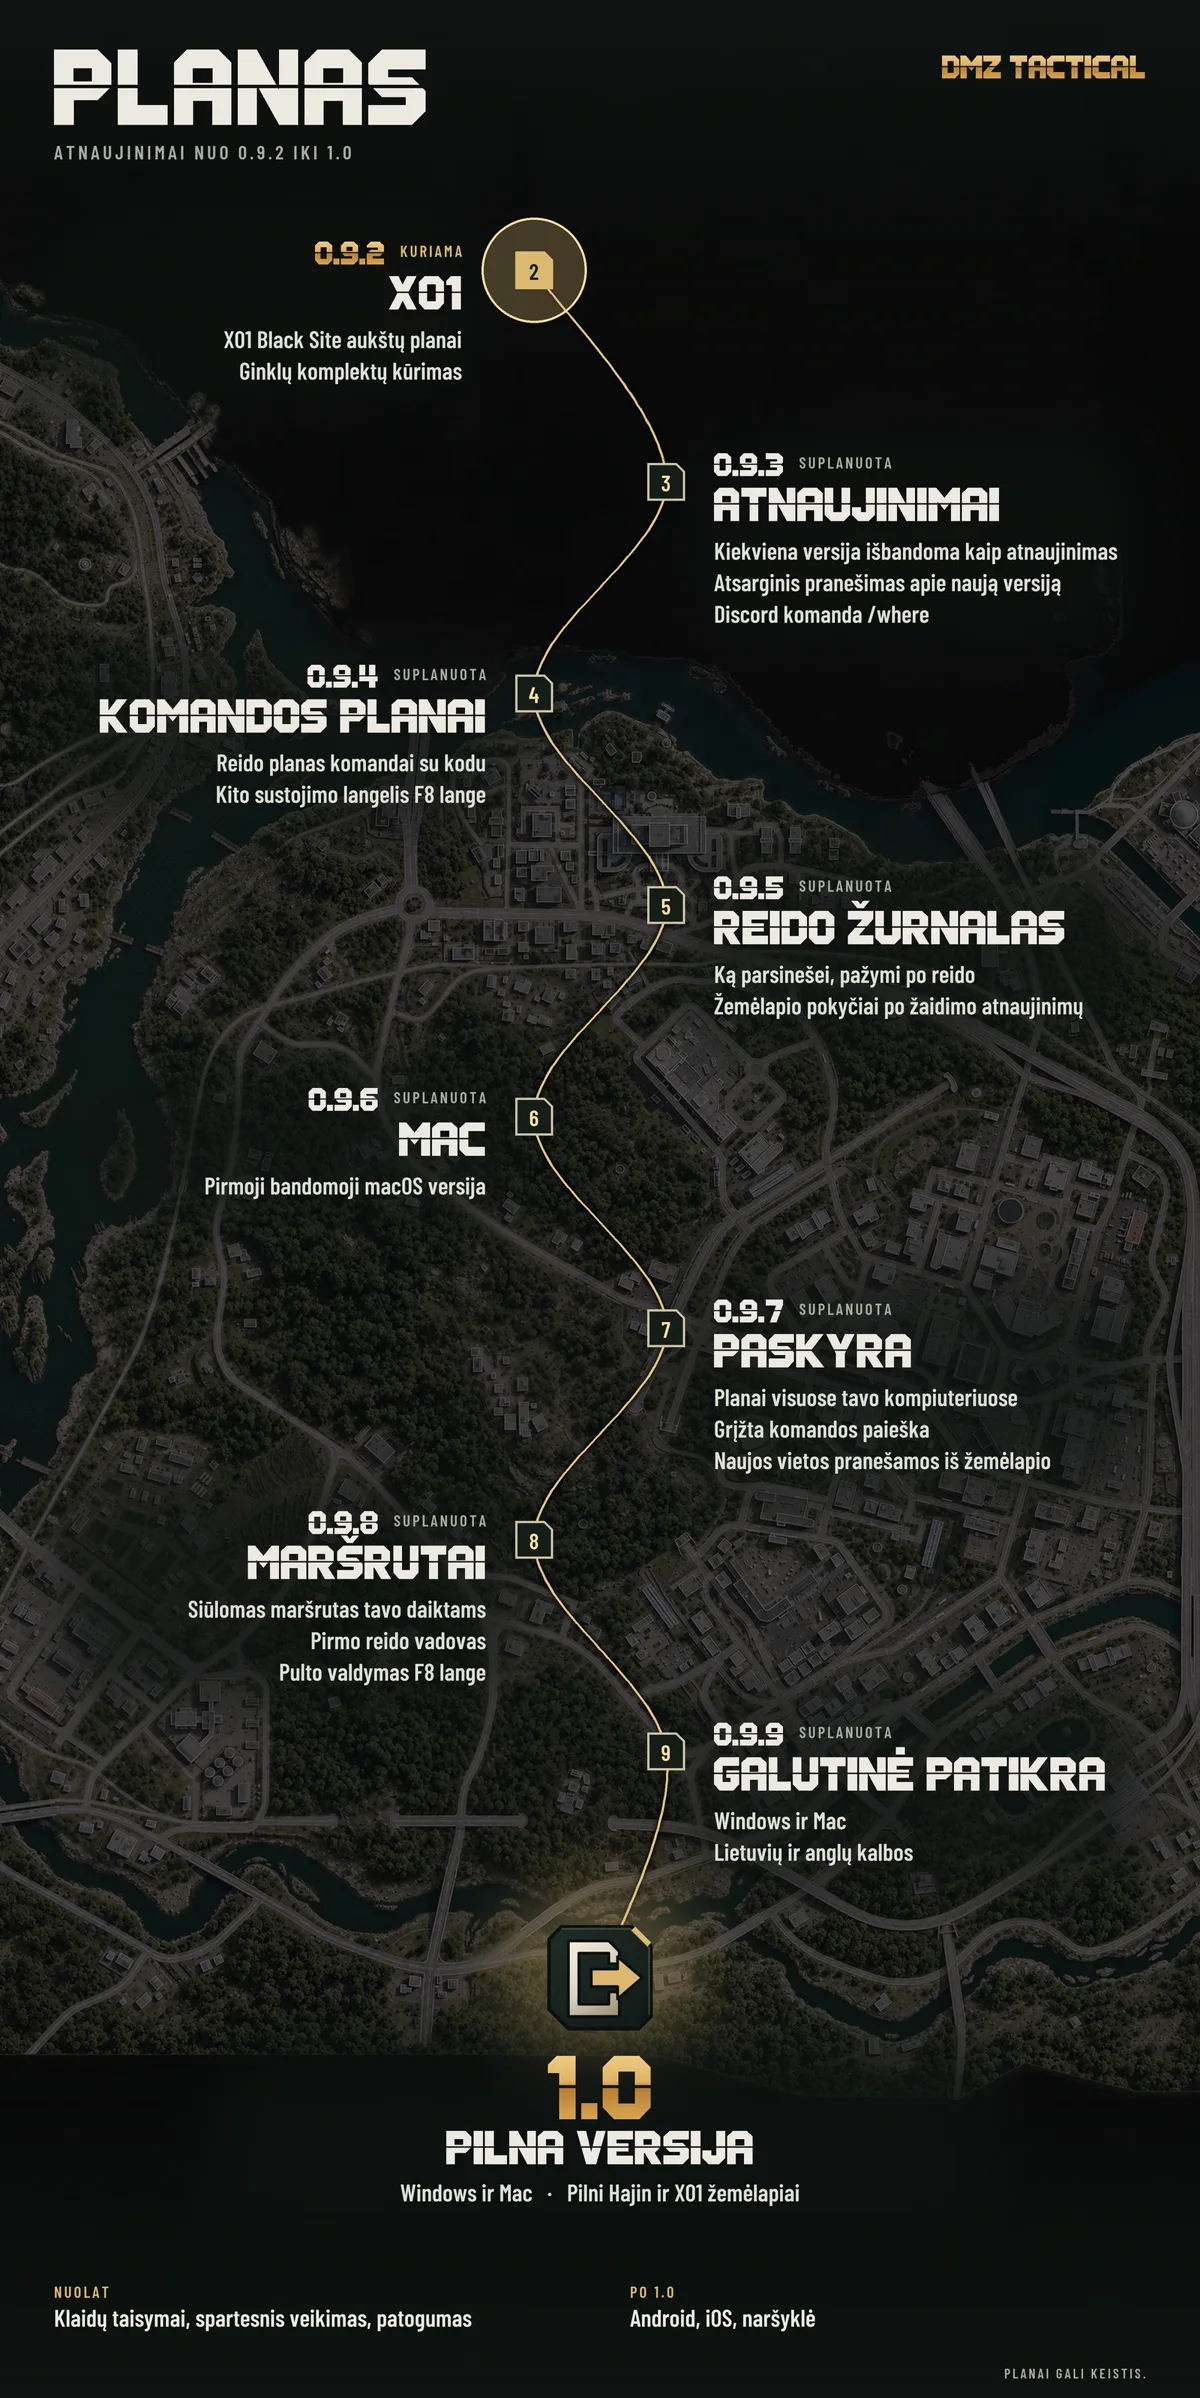
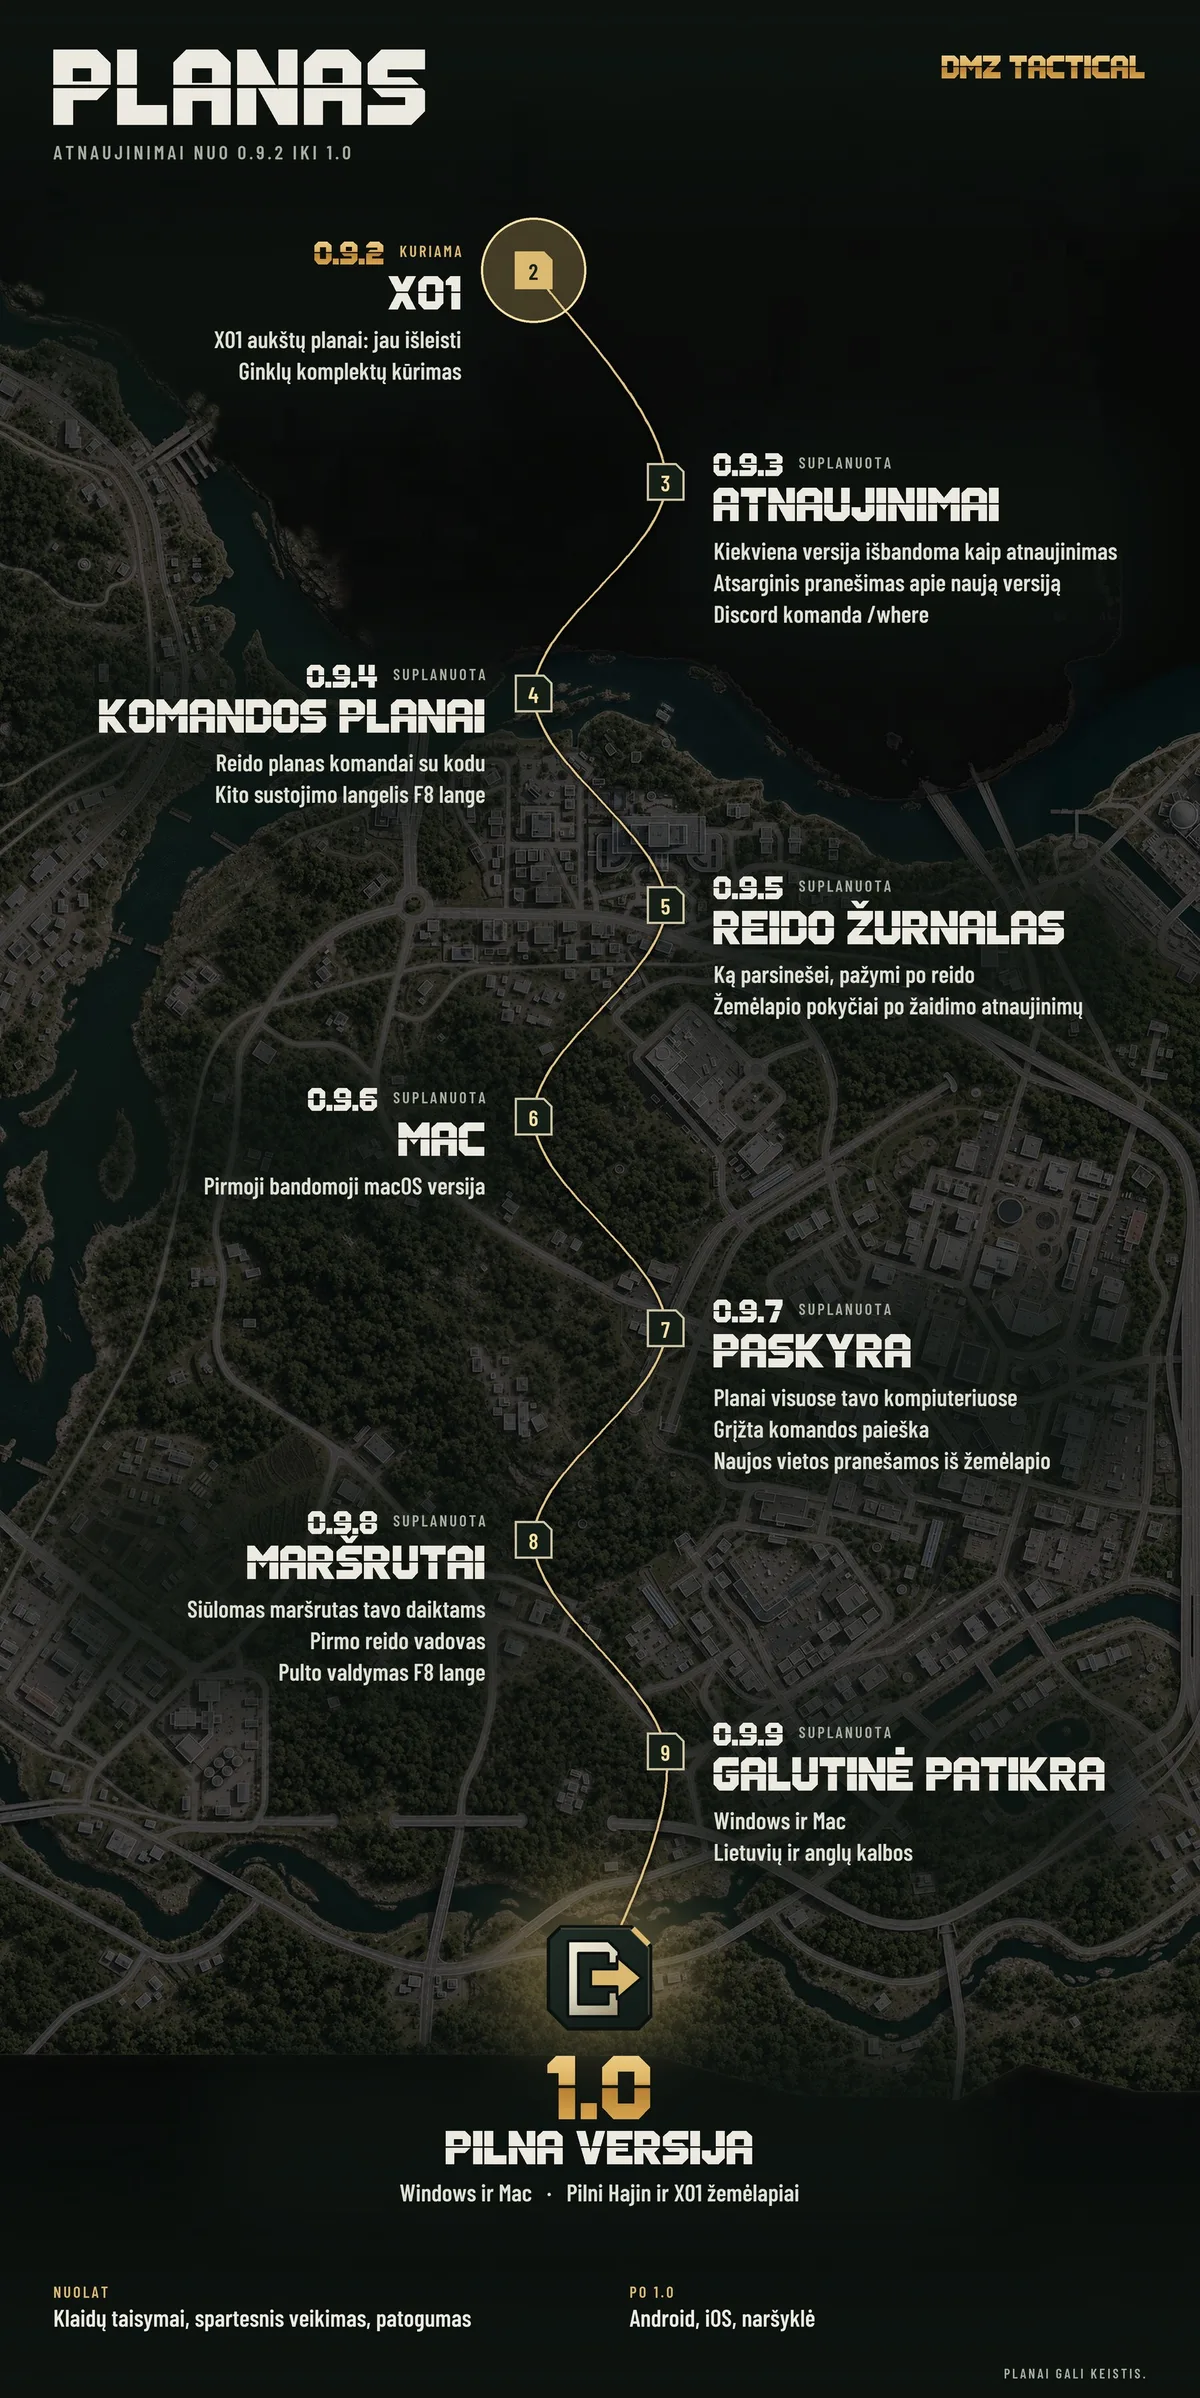
Roadmap: X01 floor plans are out
0.9.2 X01 now says the floor plans are out and the weapon builder is in progress, on the README boards, in their alt text and on the website. New board file names so GitHub shows the update.

diff --git a/docs/lt/index.html b/docs/lt/index.html
@@ -89,10 +89,10 @@
 <section aria-labelledby="road-h"><div class="wrap">
 <h2 id="road-h" class="sr-only">Planas iki 1.0</h2>
 <picture class="roadmap">
-<source media="(max-width: 600px)" srcset="../assets/img/roadmap-mobile-lt.webp" width="900" height="3480">
-<img src="../assets/img/roadmap-lt.webp" width="1200" height="2398" alt="Planas iki 1.0, nupieštas kaip reido maršrutas Hajin žemėlapyje. 0.9.2 X01, kuriama: X01 Black Site aukštų planai ir ginklų komplektų kūrimas. 0.9.3 Atnaujinimai: kiekviena versija išbandoma kaip atnaujinimas, atsarginis pranešimas apie naują versiją ir Discord komanda /where. 0.9.4 Komandos planai: reido planas komandai su kodu ir kito sustojimo langelis F8 lange. 0.9.5 Reido žurnalas: ką parsinešei, pažymi po reido, ir žemėlapio pokyčiai po žaidimo atnaujinimų. 0.9.6 Mac: pirmoji bandomoji macOS versija. 0.9.7 Paskyra: planai visuose tavo kompiuteriuose, grįžta komandos paieška, naujos vietos pranešamos iš žemėlapio. 0.9.8 Maršrutai: siūlomas maršrutas tavo daiktams, pirmo reido vadovas, pulto valdymas F8 lange. 0.9.9 Galutinė patikra: Windows ir Mac, lietuvių ir anglų kalbos. 1.0 Pilna versija: Windows ir Mac, pilni Hajin ir X01 žemėlapiai. Nuolat: klaidų taisymai, spartesnis veikimas ir patogumas. Po 1.0: Android, iOS ir naršyklė. Planai gali keistis." loading="lazy" decoding="async">
+<source media="(max-width: 600px)" srcset="../assets/img/roadmap-mobile-lt.webp?v=r2" width="900" height="3480">
+<img src="../assets/img/roadmap-lt.webp?v=r2" width="1200" height="2398" alt="Planas iki 1.0, nupieštas kaip reido maršrutas Hajin žemėlapyje. 0.9.2 X01, kuriama: X01 aukštų planai jau išleisti, ginklų komplektų kūrimas kuriamas. 0.9.3 Atnaujinimai: kiekviena versija išbandoma kaip atnaujinimas, atsarginis pranešimas apie naują versiją ir Discord komanda /where. 0.9.4 Komandos planai: reido planas komandai su kodu ir kito sustojimo langelis F8 lange. 0.9.5 Reido žurnalas: ką parsinešei, pažymi po reido, ir žemėlapio pokyčiai po žaidimo atnaujinimų. 0.9.6 Mac: pirmoji bandomoji macOS versija. 0.9.7 Paskyra: planai visuose tavo kompiuteriuose, grįžta komandos paieška, naujos vietos pranešamos iš žemėlapio. 0.9.8 Maršrutai: siūlomas maršrutas tavo daiktams, pirmo reido vadovas, pulto valdymas F8 lange. 0.9.9 Galutinė patikra: Windows ir Mac, lietuvių ir anglų kalbos. 1.0 Pilna versija: Windows ir Mac, pilni Hajin ir X01 žemėlapiai. Nuolat: klaidų taisymai, spartesnis veikimas ir patogumas. Po 1.0: Android, iOS ir naršyklė. Planai gali keistis." loading="lazy" decoding="async">
 </picture>
-<details class="road-text"><summary>Skaityti planą tekstu</summary><ol class="road"><li><b>0.9.2 · kuriama</b><span>X01 Black Site aukštų planai ir ginklų komplektų kūrimas</span></li><li><b>0.9.3</b><span>Kiekviena versija išbandoma kaip atnaujinimas, atsarginis pranešimas apie naują versiją ir Discord komanda /where</span></li><li><b>0.9.4</b><span>Reido planas komandai su kodu ir kito sustojimo langelis F8 lange</span></li><li><b>0.9.5</b><span>Reido žurnalas: ką parsinešei, pažymi po reido, ir žemėlapio pokyčiai po žaidimo atnaujinimų</span></li><li><b>0.9.6</b><span>Pirmoji bandomoji macOS versija</span></li><li><b>0.9.7</b><span>Paskyra: planai visuose tavo kompiuteriuose, grįžta komandos paieška, naujos vietos pranešamos iš žemėlapio</span></li><li><b>0.9.8</b><span>Siūlomas maršrutas tavo daiktams, pirmo reido vadovas ir pulto valdymas F8 lange</span></li><li><b>0.9.9</b><span>Galutinė patikra: Windows ir Mac, lietuvių ir anglų kalbos</span></li><li><b>1.0</b><span>Pilna versija Windows ir Mac su pilnais Hajin ir X01 žemėlapiais</span></li><li><b>Po 1.0</b><span>Android, iOS ir naršyklė</span></li></ol></details>
+<details class="road-text"><summary>Skaityti planą tekstu</summary><ol class="road"><li><b>0.9.2 · kuriama</b><span>X01 aukštų planai jau išleisti; kuriamas ginklų komplektų kūrimas</span></li><li><b>0.9.3</b><span>Kiekviena versija išbandoma kaip atnaujinimas, atsarginis pranešimas apie naują versiją ir Discord komanda /where</span></li><li><b>0.9.4</b><span>Reido planas komandai su kodu ir kito sustojimo langelis F8 lange</span></li><li><b>0.9.5</b><span>Reido žurnalas: ką parsinešei, pažymi po reido, ir žemėlapio pokyčiai po žaidimo atnaujinimų</span></li><li><b>0.9.6</b><span>Pirmoji bandomoji macOS versija</span></li><li><b>0.9.7</b><span>Paskyra: planai visuose tavo kompiuteriuose, grįžta komandos paieška, naujos vietos pranešamos iš žemėlapio</span></li><li><b>0.9.8</b><span>Siūlomas maršrutas tavo daiktams, pirmo reido vadovas ir pulto valdymas F8 lange</span></li><li><b>0.9.9</b><span>Galutinė patikra: Windows ir Mac, lietuvių ir anglų kalbos</span></li><li><b>1.0</b><span>Pilna versija Windows ir Mac su pilnais Hajin ir X01 žemėlapiais</span></li><li><b>Po 1.0</b><span>Android, iOS ir naršyklė</span></li></ol></details>
 <p class="note">Klaidų taisymai, spartesnis veikimas ir patogumas – kiekviename atnaujinime. Planai gali keistis. Naujienas skelbiame <a href="https://discord.gg/PzCZNqmybB">Discord</a>.</p>
 </div></section>
 <section id="faq" aria-labelledby="faq-h"><div class="wrap">

diff --git a/docs/index.html b/docs/index.html
@@ -89,10 +89,10 @@
 <section aria-labelledby="road-h"><div class="wrap">
 <h2 id="road-h" class="sr-only">Roadmap to 1.0</h2>
 <picture class="roadmap">
-<source media="(max-width: 600px)" srcset="assets/img/roadmap-mobile-en.webp" width="900" height="3480">
-<img src="assets/img/roadmap-en.webp" width="1200" height="2398" alt="Roadmap to 1.0, drawn as a raid route on the Hajin map. 0.9.2 X01, in progress: X01 Black Site floor plans and a weapon builder. 0.9.3 Updates: every release tested as an update, a backup update notice and the Discord command /where. 0.9.4 Squad plans: share a raid plan with a code, and the next stop&#x27;s grid square in F8. 0.9.5 Raid log: log your loot after a raid, and map changes after game updates. 0.9.6 Mac: first macOS test build. 0.9.7 Account: plans synced across PCs, squad search returns, report item spots. 0.9.8 Routes: suggested route for your items, first raid guide, gamepad support in F8. 0.9.9 Final testing on Windows and Mac, in English and Lithuanian. 1.0 Full release: Windows and Mac, complete Hajin and X01 maps. Ongoing: bug fixes, performance and quality of life. After 1.0: Android, iOS and web. Plans are subject to change." loading="lazy" decoding="async">
+<source media="(max-width: 600px)" srcset="assets/img/roadmap-mobile-en.webp?v=r2" width="900" height="3480">
+<img src="assets/img/roadmap-en.webp?v=r2" width="1200" height="2398" alt="Roadmap to 1.0, drawn as a raid route on the Hajin map. 0.9.2 X01, in progress: X01 floor plans are out now, the weapon builder is in progress. 0.9.3 Updates: every release tested as an update, a backup update notice and the Discord command /where. 0.9.4 Squad plans: share a raid plan with a code, and the next stop&#x27;s grid square in F8. 0.9.5 Raid log: log your loot after a raid, and map changes after game updates. 0.9.6 Mac: first macOS test build. 0.9.7 Account: plans synced across PCs, squad search returns, report item spots. 0.9.8 Routes: suggested route for your items, first raid guide, gamepad support in F8. 0.9.9 Final testing on Windows and Mac, in English and Lithuanian. 1.0 Full release: Windows and Mac, complete Hajin and X01 maps. Ongoing: bug fixes, performance and quality of life. After 1.0: Android, iOS and web. Plans are subject to change." loading="lazy" decoding="async">
 </picture>
-<details class="road-text"><summary>Read the roadmap as text</summary><ol class="road"><li><b>0.9.2 · in progress</b><span>X01 Black Site floor plans and a weapon builder</span></li><li><b>0.9.3</b><span>Every release tested as an update, a backup update notice and the Discord command /where</span></li><li><b>0.9.4</b><span>Share a raid plan with your squad using a code; the next stop&#x27;s grid square in F8</span></li><li><b>0.9.5</b><span>Raid log for the loot you brought back, and map changes after game updates</span></li><li><b>0.9.6</b><span>First macOS test build</span></li><li><b>0.9.7</b><span>Account: plans synced across PCs, squad search returns, report item spots</span></li><li><b>0.9.8</b><span>Suggested route for your items, first raid guide and gamepad support in F8</span></li><li><b>0.9.9</b><span>Final testing on Windows and Mac, in English and Lithuanian</span></li><li><b>1.0</b><span>Full release for Windows and Mac with complete Hajin and X01 maps</span></li><li><b>After 1.0</b><span>Android, iOS and web</span></li></ol></details>
+<details class="road-text"><summary>Read the roadmap as text</summary><ol class="road"><li><b>0.9.2 · in progress</b><span>X01 floor plans are out now; weapon builder in progress</span></li><li><b>0.9.3</b><span>Every release tested as an update, a backup update notice and the Discord command /where</span></li><li><b>0.9.4</b><span>Share a raid plan with your squad using a code; the next stop&#x27;s grid square in F8</span></li><li><b>0.9.5</b><span>Raid log for the loot you brought back, and map changes after game updates</span></li><li><b>0.9.6</b><span>First macOS test build</span></li><li><b>0.9.7</b><span>Account: plans synced across PCs, squad search returns, report item spots</span></li><li><b>0.9.8</b><span>Suggested route for your items, first raid guide and gamepad support in F8</span></li><li><b>0.9.9</b><span>Final testing on Windows and Mac, in English and Lithuanian</span></li><li><b>1.0</b><span>Full release for Windows and Mac with complete Hajin and X01 maps</span></li><li><b>After 1.0</b><span>Android, iOS and web</span></li></ol></details>
 <p class="note">Bug fixes, performance and quality of life improvements continue in every update. Plans are subject to change. Follow progress on <a href="https://discord.gg/PzCZNqmybB">Discord</a>.</p>
 </div></section>
 <section id="faq" aria-labelledby="faq-h"><div class="wrap">

diff --git a/README.lt.md b/README.lt.md
@@ -71,8 +71,8 @@
 ## Kas toliau
 
 <picture>
-<source media="(max-width: 600px)" srcset="media/hajin-roadmap-1-0-mobile-lt.jpg">
-<img src="media/hajin-roadmap-1-0-lt.jpg" width="100%" alt="Planas iki 1.0, nupieštas kaip reido maršrutas Hajin žemėlapyje. 0.9.2 X01, kuriama: X01 Black Site aukštų planai ir ginklų komplektų kūrimas. 0.9.3 Atnaujinimai: kiekviena versija išbandoma kaip atnaujinimas, atsarginis pranešimas apie naują versiją ir Discord komanda /where. 0.9.4 Komandos planai: reido planas komandai su kodu ir kito sustojimo langelis F8 lange. 0.9.5 Reido žurnalas: ką parsinešei, pažymi po reido, ir žemėlapio pokyčiai po žaidimo atnaujinimų. 0.9.6 Mac: pirmoji bandomoji macOS versija. 0.9.7 Paskyra: planai visuose tavo kompiuteriuose, grįžta komandos paieška, naujos vietos pranešamos iš žemėlapio. 0.9.8 Maršrutai: siūlomas maršrutas tavo daiktams, pirmo reido vadovas, pulto valdymas F8 lange. 0.9.9 Galutinė patikra: Windows ir Mac, lietuvių ir anglų kalbos. 1.0 Pilna versija: Windows ir Mac, pilni Hajin ir X01 žemėlapiai. Nuolat: klaidų taisymai, spartesnis veikimas ir patogumas. Po 1.0: Android, iOS ir naršyklė. Planai gali keistis.">
+<source media="(max-width: 600px)" srcset="media/hajin-roadmap-1-0-r2-mobile-lt.jpg">
+<img src="media/hajin-roadmap-1-0-r2-lt.jpg" width="100%" alt="Planas iki 1.0, nupieštas kaip reido maršrutas Hajin žemėlapyje. 0.9.2 X01, kuriama: X01 aukštų planai jau išleisti, ginklų komplektų kūrimas kuriamas. 0.9.3 Atnaujinimai: kiekviena versija išbandoma kaip atnaujinimas, atsarginis pranešimas apie naują versiją ir Discord komanda /where. 0.9.4 Komandos planai: reido planas komandai su kodu ir kito sustojimo langelis F8 lange. 0.9.5 Reido žurnalas: ką parsinešei, pažymi po reido, ir žemėlapio pokyčiai po žaidimo atnaujinimų. 0.9.6 Mac: pirmoji bandomoji macOS versija. 0.9.7 Paskyra: planai visuose tavo kompiuteriuose, grįžta komandos paieška, naujos vietos pranešamos iš žemėlapio. 0.9.8 Maršrutai: siūlomas maršrutas tavo daiktams, pirmo reido vadovas, pulto valdymas F8 lange. 0.9.9 Galutinė patikra: Windows ir Mac, lietuvių ir anglų kalbos. 1.0 Pilna versija: Windows ir Mac, pilni Hajin ir X01 žemėlapiai. Nuolat: klaidų taisymai, spartesnis veikimas ir patogumas. Po 1.0: Android, iOS ir naršyklė. Planai gali keistis.">
 </picture>
 
 <p align="center">Naujienos – <a href="https://discord.gg/PzCZNqmybB">Discord serveryje</a>.</p>

diff --git a/README.md b/README.md
@@ -71,8 +71,8 @@
 ## What's next
 
 <picture>
-<source media="(max-width: 600px)" srcset="media/hajin-roadmap-1-0-mobile-en.jpg">
-<img src="media/hajin-roadmap-1-0-en.jpg" width="100%" alt="Roadmap to 1.0, drawn as a raid route on the Hajin map. 0.9.2 X01, in progress: X01 Black Site floor plans and a weapon builder. 0.9.3 Updates: every release tested as an update, a backup update notice and the Discord command /where. 0.9.4 Squad plans: share a raid plan with a code, and the next stop's grid square in F8. 0.9.5 Raid log: log your loot after a raid, and map changes after game updates. 0.9.6 Mac: first macOS test build. 0.9.7 Account: plans synced across PCs, squad search returns, report item spots. 0.9.8 Routes: suggested route for your items, first raid guide, gamepad support in F8. 0.9.9 Final testing on Windows and Mac, in English and Lithuanian. 1.0 Full release: Windows and Mac, complete Hajin and X01 maps. Ongoing: bug fixes, performance and quality of life. After 1.0: Android, iOS and web. Plans are subject to change.">
+<source media="(max-width: 600px)" srcset="media/hajin-roadmap-1-0-r2-mobile-en.jpg">
+<img src="media/hajin-roadmap-1-0-r2-en.jpg" width="100%" alt="Roadmap to 1.0, drawn as a raid route on the Hajin map. 0.9.2 X01, in progress: X01 floor plans are out now, the weapon builder is in progress. 0.9.3 Updates: every release tested as an update, a backup update notice and the Discord command /where. 0.9.4 Squad plans: share a raid plan with a code, and the next stop's grid square in F8. 0.9.5 Raid log: log your loot after a raid, and map changes after game updates. 0.9.6 Mac: first macOS test build. 0.9.7 Account: plans synced across PCs, squad search returns, report item spots. 0.9.8 Routes: suggested route for your items, first raid guide, gamepad support in F8. 0.9.9 Final testing on Windows and Mac, in English and Lithuanian. 1.0 Full release: Windows and Mac, complete Hajin and X01 maps. Ongoing: bug fixes, performance and quality of life. After 1.0: Android, iOS and web. Plans are subject to change.">
 </picture>
 
 <p align="center">Follow progress on <a href="https://discord.gg/PzCZNqmybB">Discord</a>.</p>
